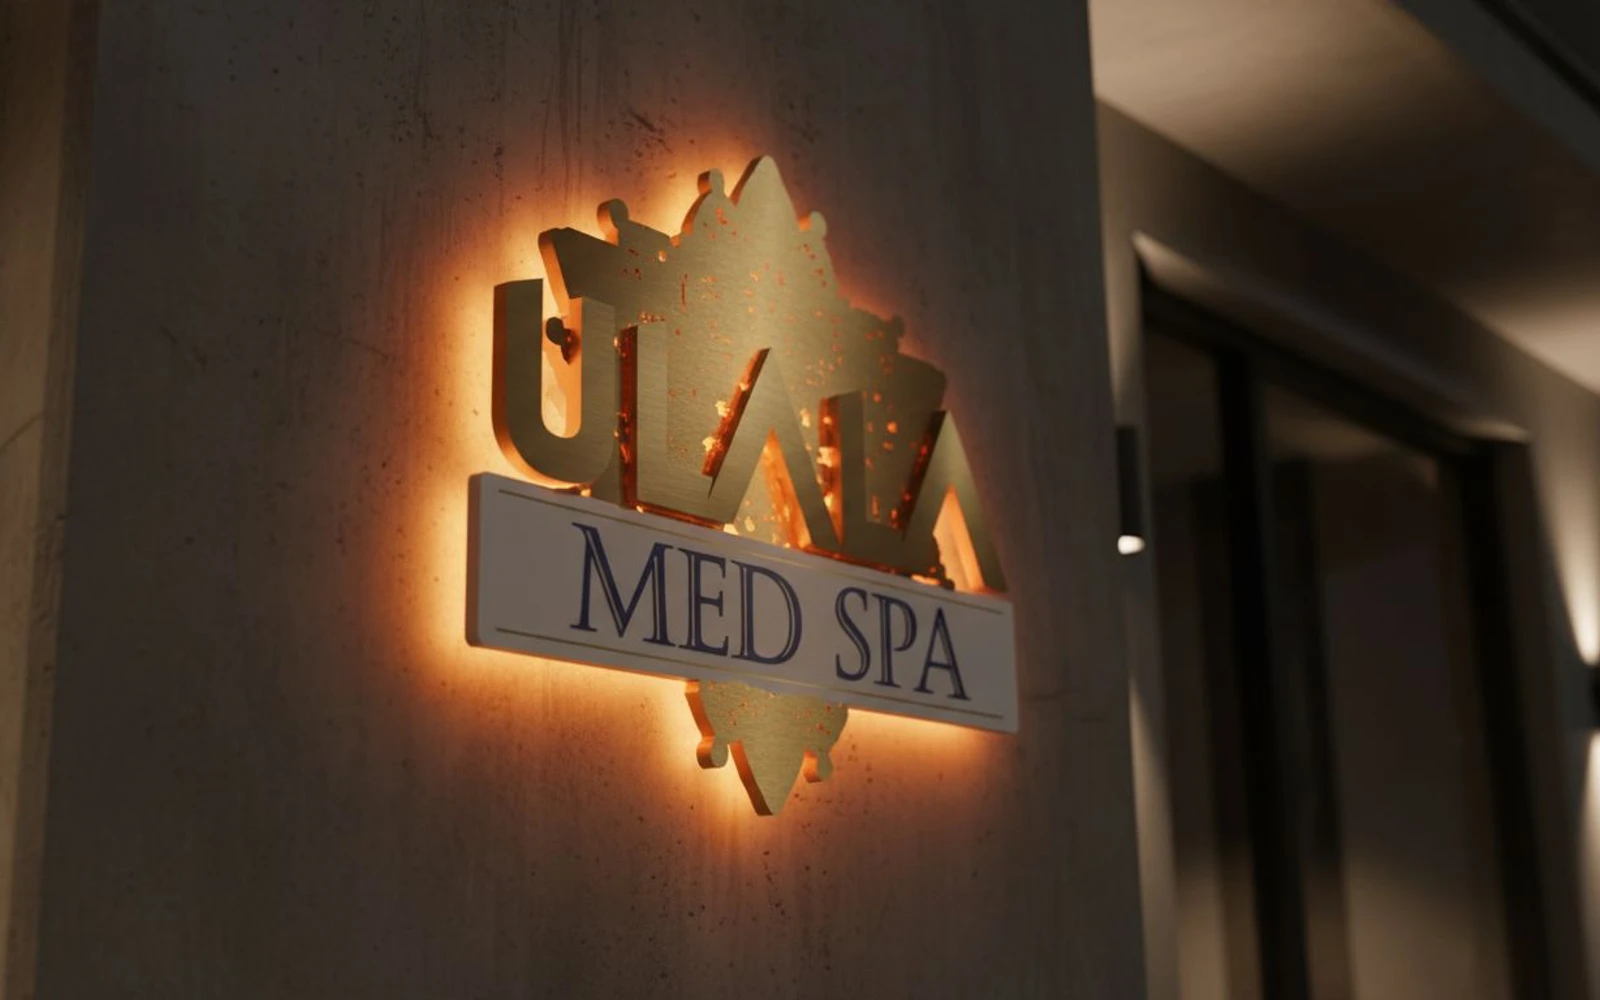
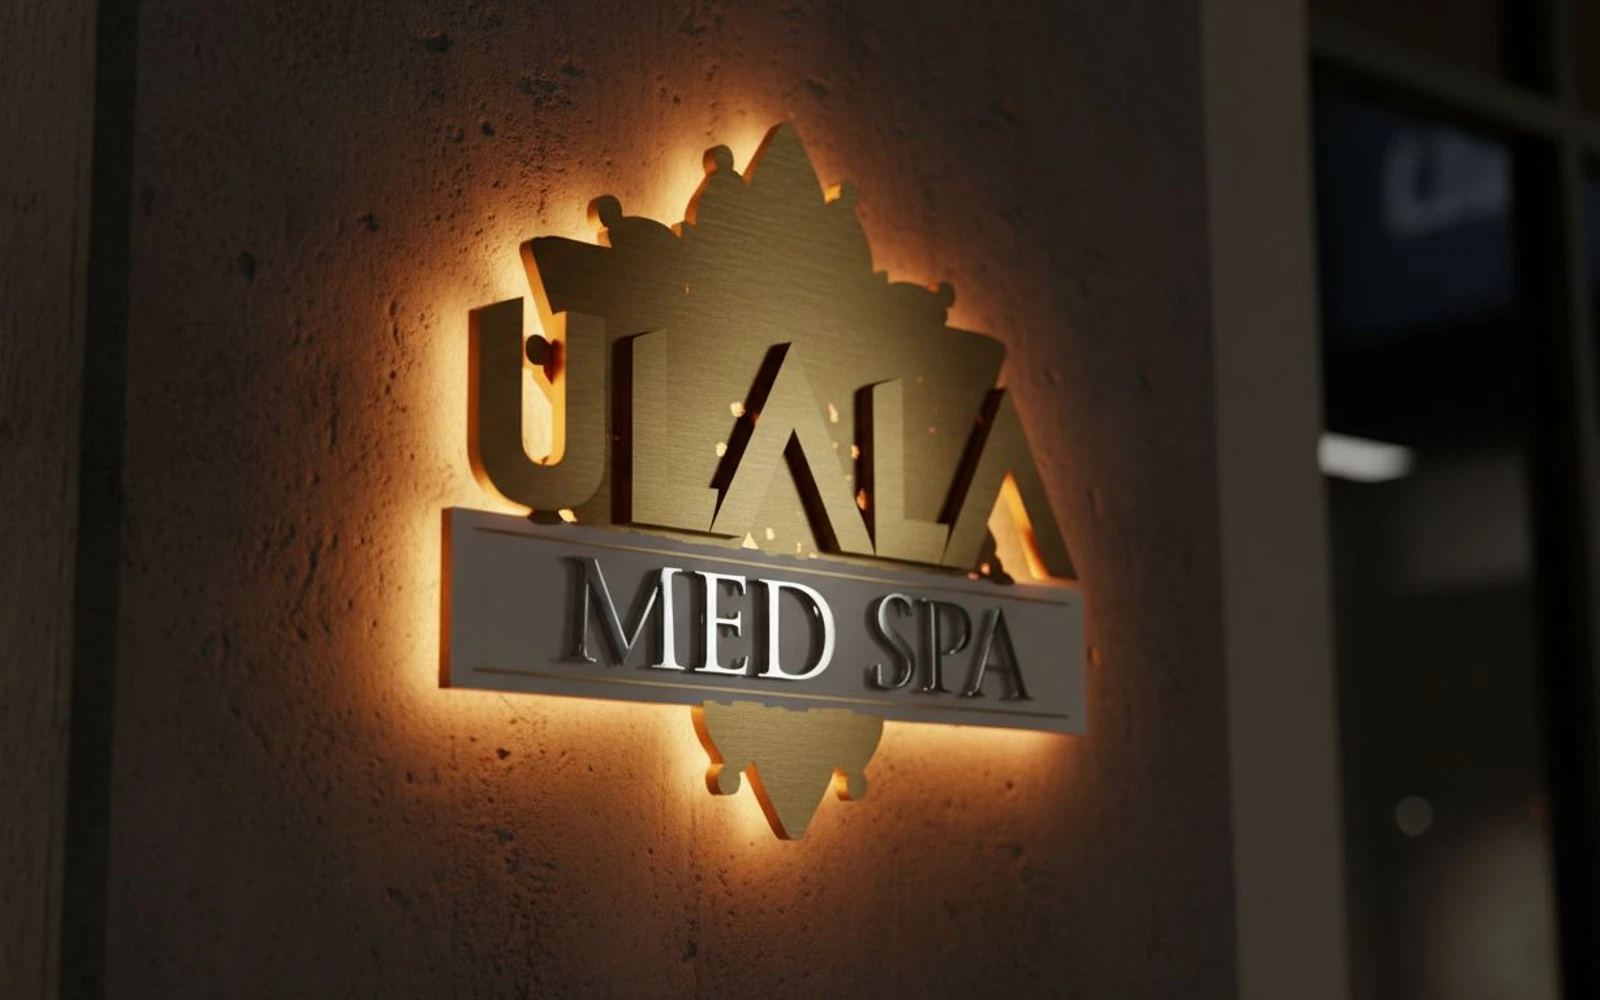
fix: ship 10 batch mockups to production + warn on LocalStorage usage
CRITICAL BUG — 4 of 5 tested prospects had broken mockup images on
production /for/{slug} pages. Root cause:

  public/mockups/ is .gitignored. LocalStorage writes mockups to
  disk, Supabase stores /mockups/{slug}.webp URL, but Vercel deploys
  from git — so freshly-generated mockups never reach production
  unless force-committed. Only 3 mockups ever made it to prod
  (manually force-added in an earlier session as a stopgap).

Ship fix:
- Force-add all 10 sendable mockup_ready prospects' .webp files
  (atx, glo, ulala, forest-family, skanda, pilates-place, brickell,
  pilatay, pride-and-glory, iris)
- .gitignore unchanged — next run will still block new files by
  default, forcing the explicit per-file add

Warning system:
- createStorage() now prints a loud banner when LocalStorage is used,
  explaining the .gitignore deploy gap and pointing to `npm run verify`
  (to be added in Part 2)

Part 2 (verify-mockups.ts + dashboard health banner + pipeline tail
verifier) ships in the next commit.

diff --git a/scripts/lib/storage.ts b/scripts/lib/storage.ts
@@ -63,5 +63,24 @@ export function createStorage(): MockupStorage {
   if (process.env.R2_ACCOUNT_ID) {
     return new R2MockupStorage()
   }
+
+  // ⚠ CRITICAL: LocalStorage writes to public/mockups/ which is .gitignored.
+  // Vercel deploys from git, so locally-generated mockups NEVER reach production
+  // unless force-committed. Running the pipeline in production mode with LocalStorage
+  // means prospects will advance to mockup_ready with a /mockups/{slug}.webp URL
+  // that 404s on backlitsupply.com. This is a ship-blocker bug pattern.
+  //
+  // Until R2 is live, every batch run must be followed by:
+  //   git add -f public/mockups/{new-slug-files}.webp && git commit && git push
+  //
+  // OR run `npm run verify` after the batch to detect the broken mockups before
+  // they're sent. Better: wire the verifier into the batch tail (see run-pipeline.ts).
+  console.warn('\n┌──────────────────────────────────────────────────────────────────┐')
+  console.warn('│ ⚠  Using LocalStorage — mockups will NOT reach production by      │')
+  console.warn('│    default. After the run, you MUST:                              │')
+  console.warn('│      1. Run `npm run verify` to detect missing mockups            │')
+  console.warn('│      2. git add -f public/mockups/{new}.webp, commit, push        │')
+  console.warn('│    Or migrate to R2 storage (Phase 7C).                           │')
+  console.warn('└──────────────────────────────────────────────────────────────────┘\n')
   return new LocalMockupStorage()
 }